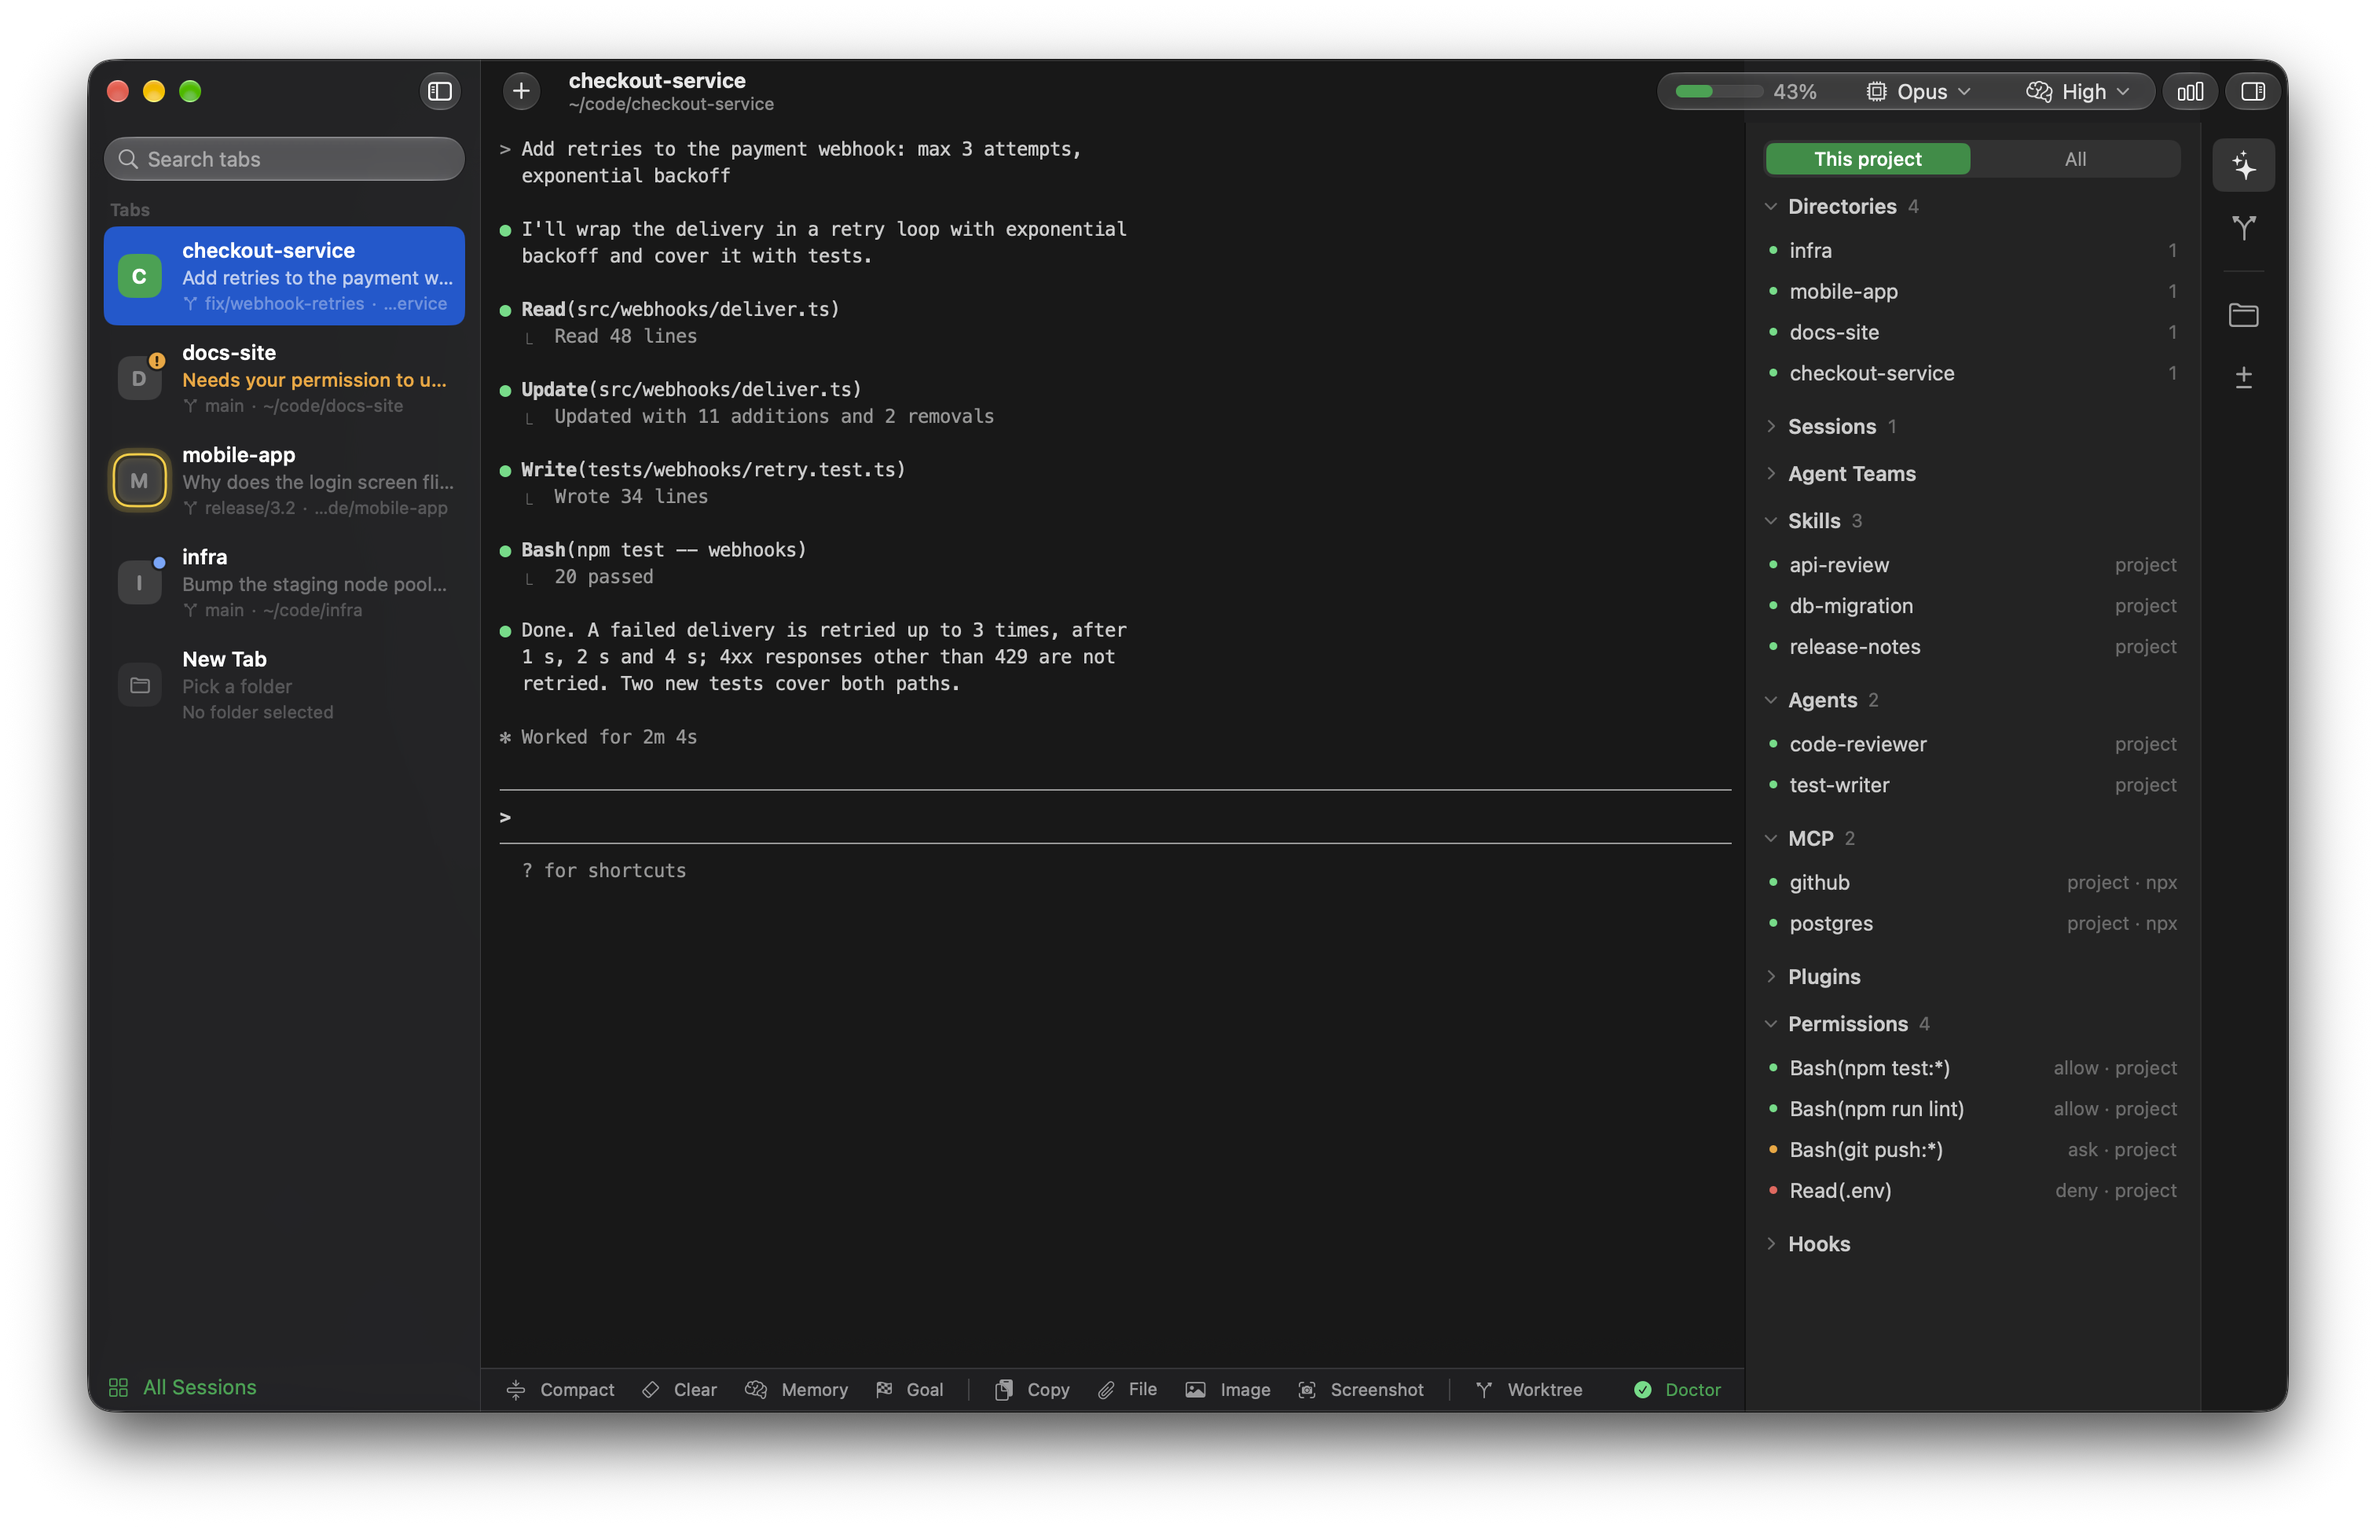
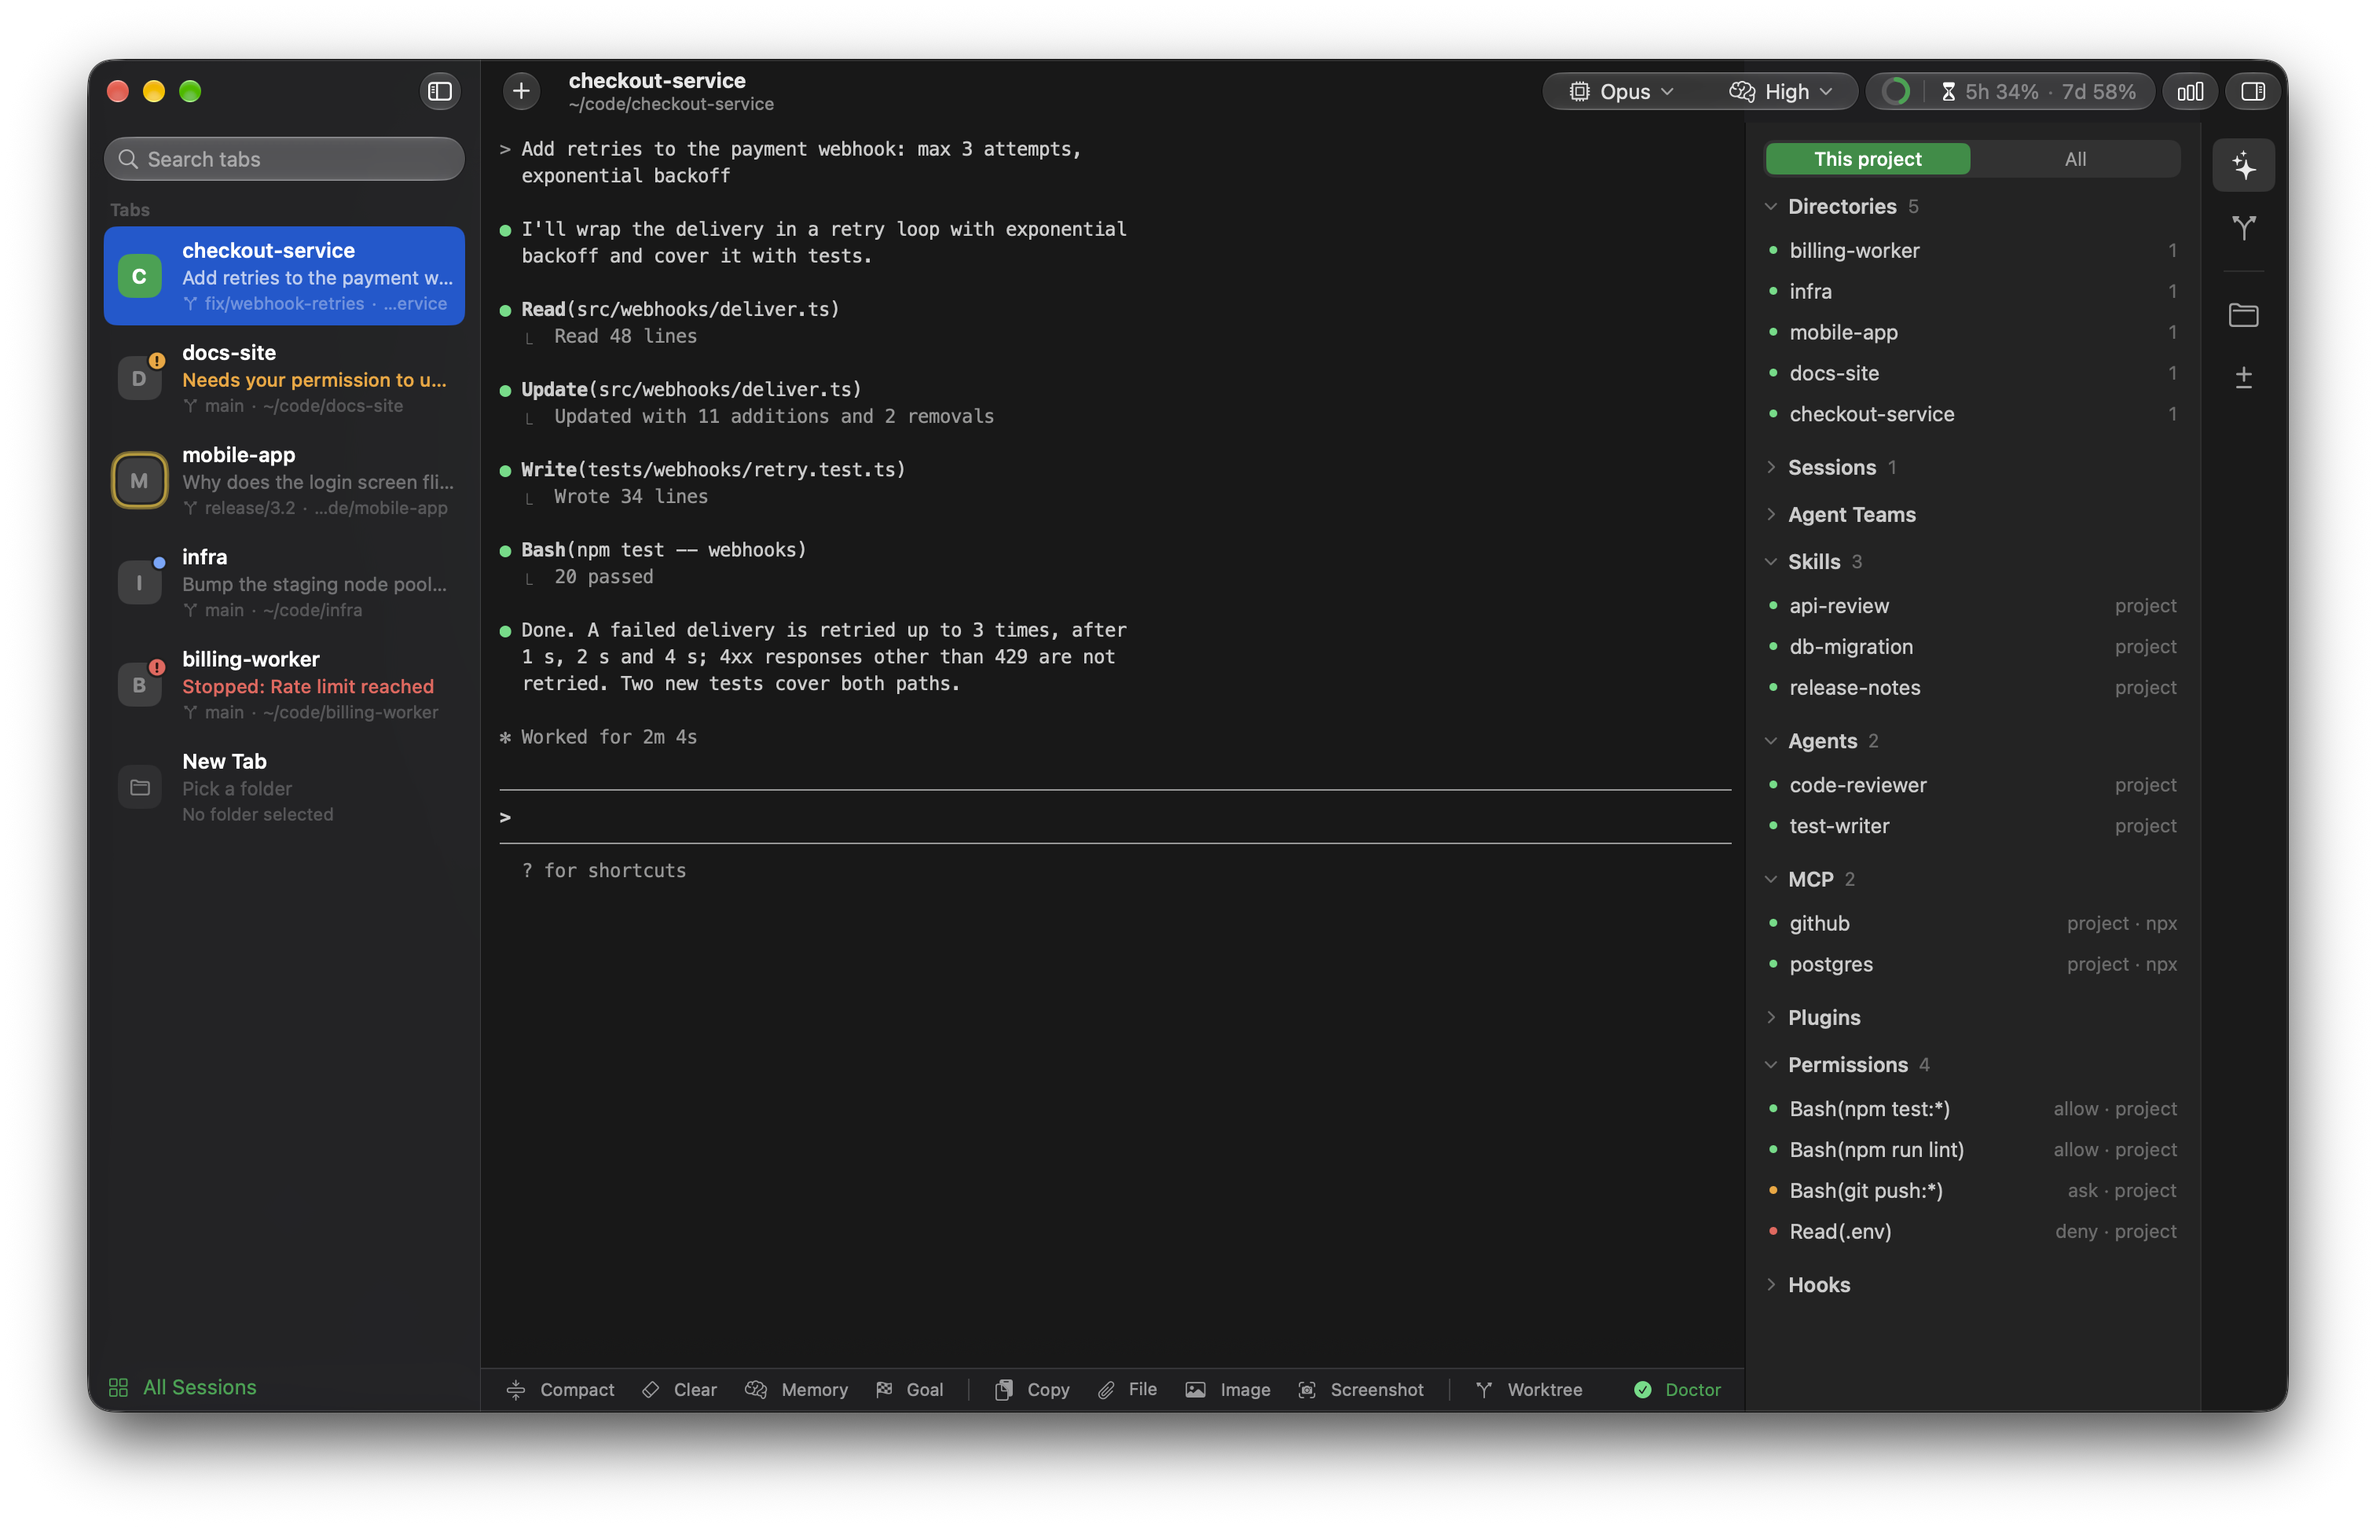
docs: README screenshot with the context ring, plan limits and a stopped tab

diff --git a/README.md b/README.md
@@ -8,7 +8,7 @@ Xylem doesn't replace or change Claude Code. Each tab runs the real `claude`
 CLI in a real terminal; Xylem adds what a terminal window lacks when you have
 several sessions going for days.
 
-![Xylem: Claude Code sessions in tabs, one finished, one waiting for permission, one working and one with news; the right panel lists the project's skills, agents, MCP servers and permissions](docs/assets/screenshot.png)
+![Xylem: Claude Code sessions in tabs, one finished, one waiting for permission, one working, one with news and one stopped by a rate limit; the toolbar shows the model, effort, context ring and plan limits; the right panel lists the project's skills, agents, MCP servers and permissions](docs/assets/screenshot.png)
 
 **Download:** https://xylem.t1nkl.dev/ (or the [latest release](https://github.com/t1nkl/xylem/releases/latest)).
 macOS 15 or later, Apple silicon or Intel. Signed and notarized; it updates
